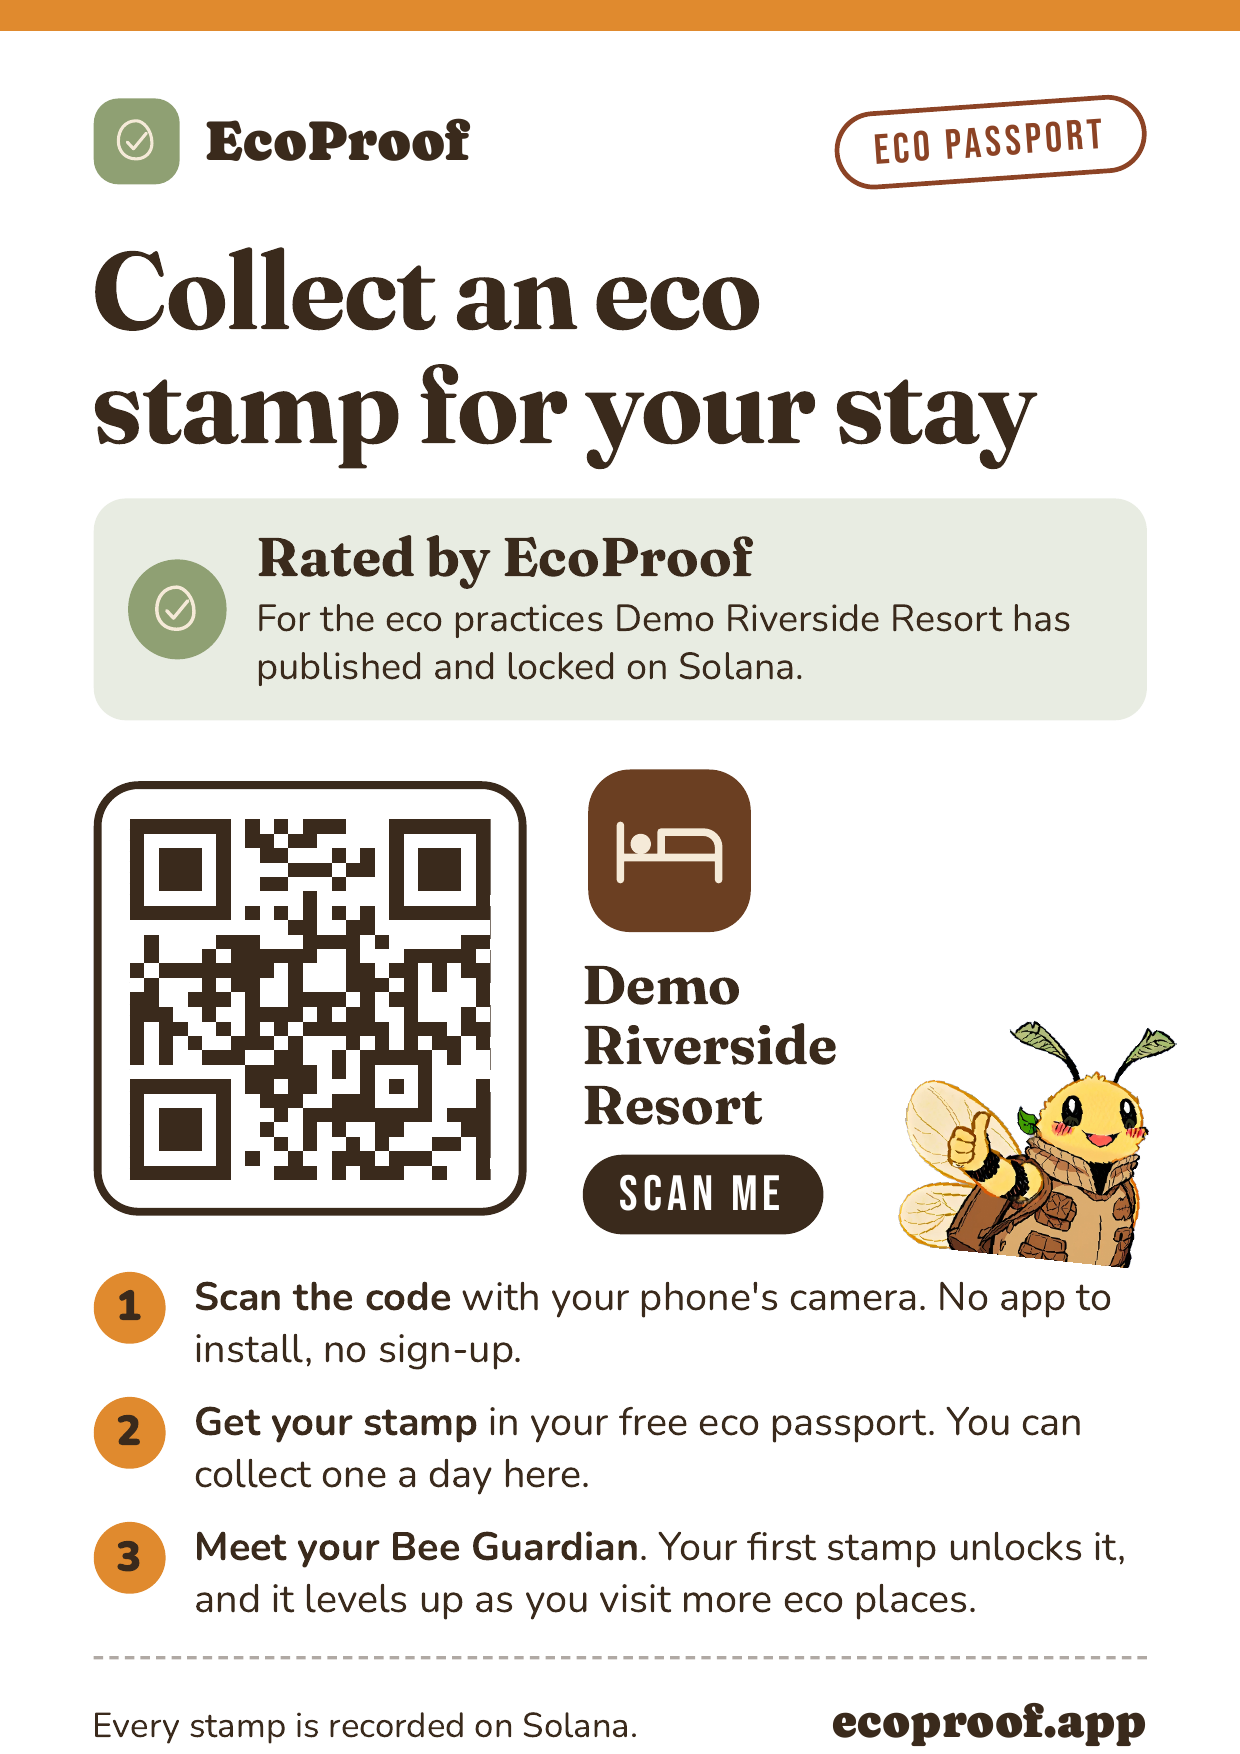
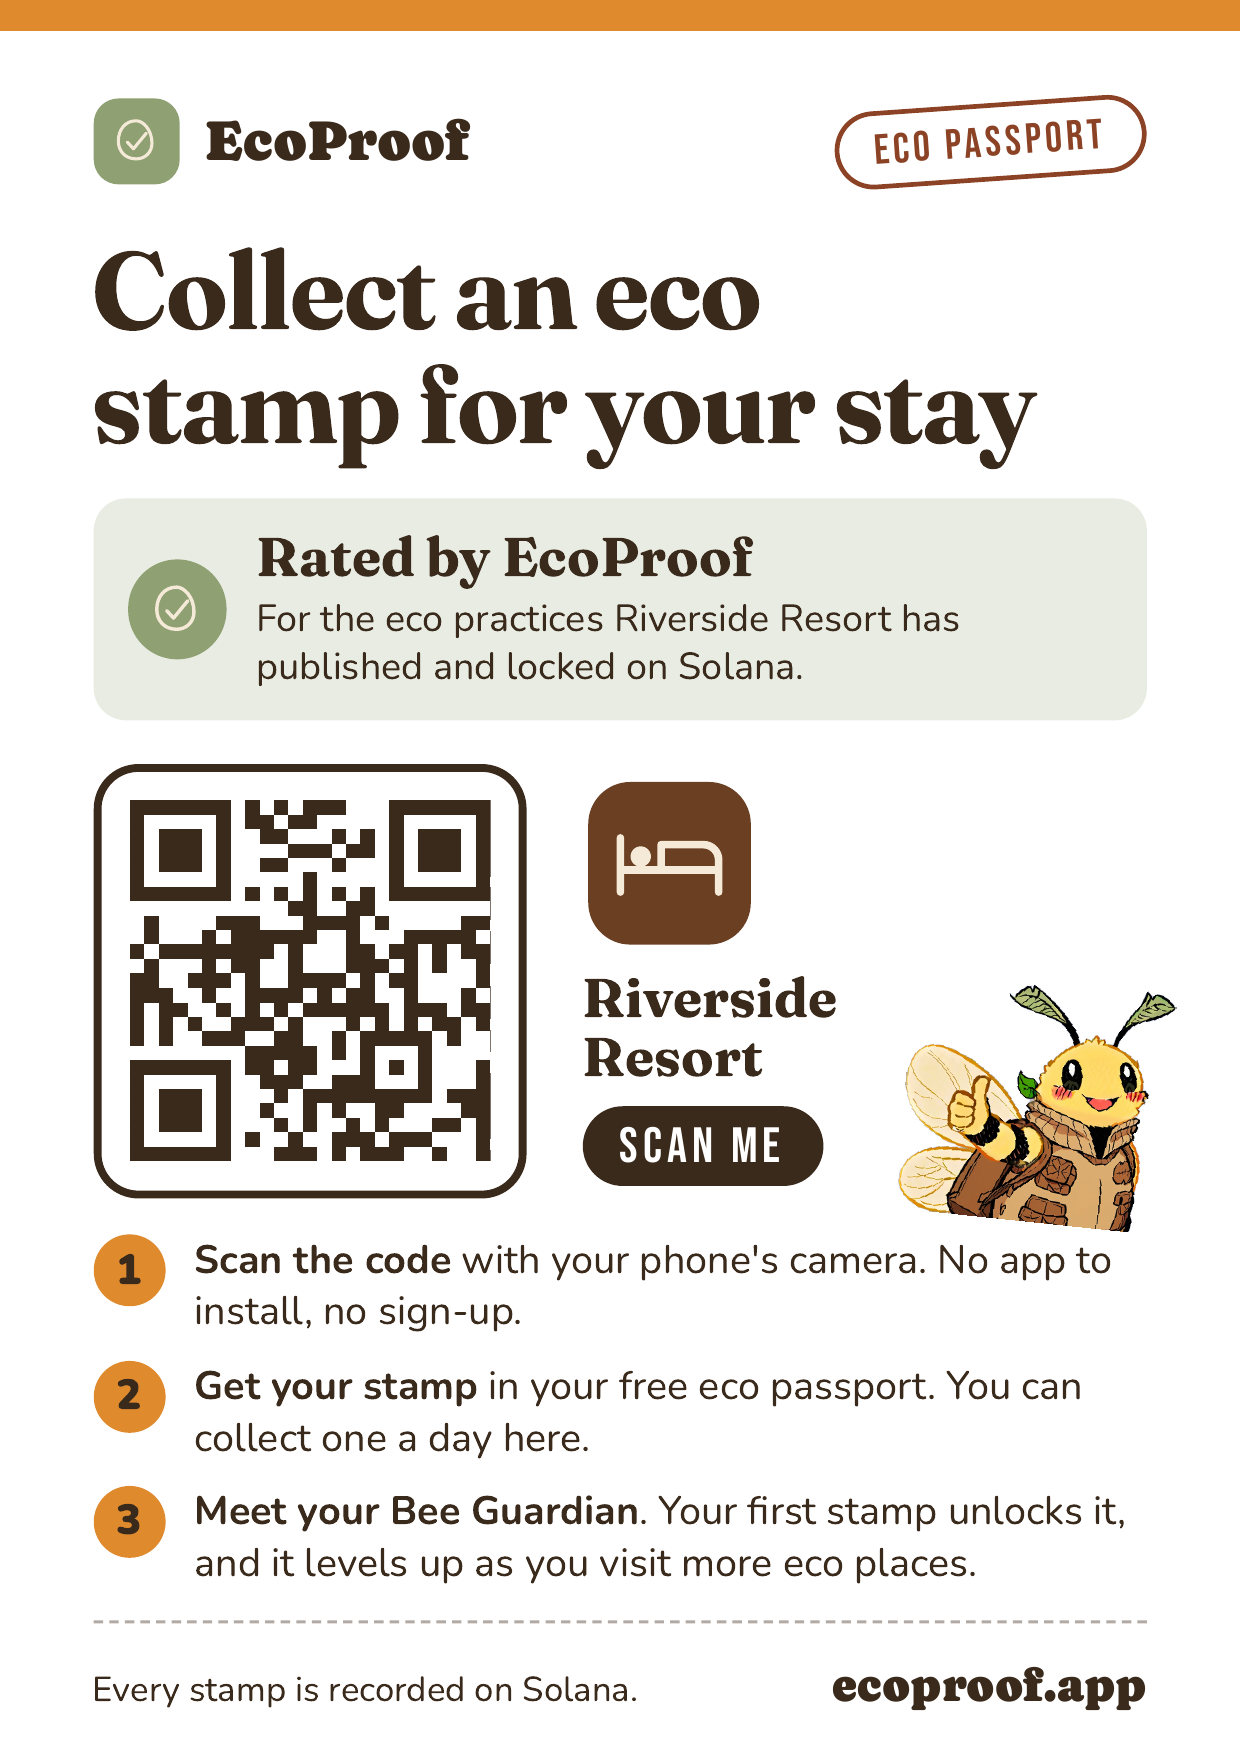
Hotel postcard in the pictures: Riverside Resort, without Demo
Claude-Session: https://claude.ai/code/session_01HWHP3iugw8gkvvKKS5vpBj

Changed region(s): [[0.0613, 0.431, 0.95, 1.0], [0.4903, 0.3387, 0.8581, 0.3694]]

diff --git a/components/landing/Landing.tsx b/components/landing/Landing.tsx
@@ -337,7 +337,7 @@ export default async function Landing({ stats }: { stats: LandingStats | null })
         <ul className="mt-8 grid gap-6 md:grid-cols-3">
           {doors.map((d, i) => (
             <li key={d.img} className="stitched grain flex flex-col rounded-[20px] bg-kraft/50 p-4 sm:p-5">
-              <Image src={`/landing/doors/v5/${d.img}.webp`} alt="" width={640} height={640} sizes="(min-width: 768px) 360px, 100vw" className="sticker aspect-[16/10] w-full object-cover object-[50%_70%] md:aspect-square" style={{ transform: `rotate(${[-1.5, 1, -1][i]}deg)` }} />
+              <Image src={`/landing/doors/v6/${d.img}.webp`} alt="" width={640} height={640} sizes="(min-width: 768px) 360px, 100vw" className="sticker aspect-[16/10] w-full object-cover object-[50%_70%] md:aspect-square" style={{ transform: `rotate(${[-1.5, 1, -1][i]}deg)` }} />
               <h3 className="mt-5 text-[22px] leading-tight">{d.title}</h3>
               <p className="mt-2 inline-flex items-center gap-1.5 self-start rounded-full bg-paper px-3 py-1 text-[13px] font-extrabold text-cocoa ring-1 ring-cocoa/10"><Stamp size={14} className="shrink-0 text-sky-ink" /> {d.door}</p>
               {/* Three facts per card (critique of 14 Nov 2026: 12+ chunks for "which one am I?"); what customers get is in "For customers". */}

diff --git a/components/landing/MapPicture.tsx b/components/landing/MapPicture.tsx
@@ -133,7 +133,7 @@ export default function MapPicture({ scanned = false }: { scanned?: boolean }) {
         <svg viewBox="0 0 100 100" preserveAspectRatio="none" className="pointer-events-none absolute inset-0 h-full w-full" aria-hidden>
           <path d="M83 33 C 86 36, 87 40, 86 46" fill="none" stroke="#e08a2e" strokeWidth={3} strokeDasharray="7 6" strokeLinecap="round" vectorEffect="non-scaling-stroke" />
         </svg>
-        <Image src="/landing/hero/stand-honey.webp" alt="The hotel's EcoProof postcard on a small stand of rough natural wood: Collect an eco stamp for your stay, Rated by EcoProof, with a QR code" width={300} height={510} sizes="(min-width: 640px) 170px, 120px"
+        <Image src="/landing/hero/stand-riverside.webp" alt="The hotel's EcoProof postcard on a small stand of rough natural wood: Collect an eco stamp for your stay, Rated by EcoProof, with a QR code" width={300} height={510} sizes="(min-width: 640px) 170px, 120px"
           className="hero-stand absolute -bottom-[16%] -left-3 -rotate-[3deg] drop-shadow-[0_18px_22px_rgba(58,42,28,0.4)] lg:-left-10" />
         <ScanPhone />
       </>}

diff --git a/components/landing/HowItWorks.tsx b/components/landing/HowItWorks.tsx
@@ -27,7 +27,7 @@ const PLACES: { cap: string; title: string; points: string; src: string; alt: st
     src: `${PIC}/counter-card.webp`,
     alt: "A café counter with the EcoProof postcard on a wooden stand beside a cup of coffee: Collect an eco stamp for your visit, a QR code, three steps and the Bee Guardian" },
   { cap: "The receipt from the till", title: "A purchase in an eco shop", points: `${pointsLabel(POINTS_VERIFIED)} for a photo of the receipt, taken in the shop. ${pointsLabel(POINTS_BY_KIND.eco_shop)} for the QR code at the till.`,
-    src: "/landing/doors/v5/store.webp",
+    src: "/landing/doors/v6/store.webp",
     alt: "The counter of an eco shop: a customer photographs the till receipt with a phone, and the screen shows what the purchase avoided" },
   { cap: "The QR code in the order email or the parcel", title: "An online order", points: `${pointsLabel(POINTS_VERIFIED)} for each verified order.`,
     src: `${PIC}/parcel-home.webp`,

diff --git a/CLAUDE.md b/CLAUDE.md
@@ -99,7 +99,7 @@ on Solana. For sustainable shops, cafés, markets and online brands.
   caches bust; current `v4`. A scroll parallax was tried and dropped (not seen as moving, blurred the strip). The Bee Guardian cutout (`public/landing/bee.webp`, from `art/v2/ranks/sentinel/sentinel_card.png`) peeks in. The
   card-fan hero (`components/landing/HeroArt.tsx`, `public/landing/cards/*.webp`, 2x of 300x420, from `art/v2/compositor/samples/`, SVG stamp
   rings) stays behind `NEXT_PUBLIC_LANDING_HERO=cards`. Paper grain and stamps are CSS. Buildings inpainted onto the island (`inpaint.py`,
-  `v3_*.py`) never matched; the island stays as generated. The earlier SD flat-lay hero (`art/hero-r1/`, `art/v2/hero/`) was dropped for mixing two styles; the owner-door photos (`public/landing/doors/v5/`). Since 2026-11-18 every picture of a place shows the real A6 postcard, not a bare QR card (Pola): `art/postcard/` holds the recipe. `gen.py <scene> <seeds>` renders epicrealismXL scenes with one blank portrait card on a wooden stand (café 403, restaurant 403, hotel `reception2` 436, eco store 402 are the picks; a card on a hotel bedside table never stood up, so the hotel is a reception desk, and the card must stand upright and face the camera: a leaning one reads as a crooked print); the card is the app's own print of a local demo place (`brave --headless --print-to-pdf http://localhost:3000/place/<id>?size=a4`, `pdftoppm -r 150 -png`; local-only places demo-cafe, demo-restaurant, demo-hotel, demo-eco-shop), `web_qr.py` swaps its QR for one to https://ecoproof.app, and `compose.py <cafe|restaurant|hotel|store>` finds the blank card and multiplies the postcard onto it → `out_<key>.png`. In use: café = `steps/v2/counter-card.webp`, restaurant = `doors/v5/coffee.webp`, hotel = `doors/v5/hotel.webp`; the store one (`out_store.png`) is made but not placed. The store door keeps the earlier receipt photo
+  `v3_*.py`) never matched; the island stays as generated. The earlier SD flat-lay hero (`art/hero-r1/`, `art/v2/hero/`) was dropped for mixing two styles; the owner-door photos (`public/landing/doors/v6/`). Since 2026-11-18 every picture of a place shows the real A6 postcard, not a bare QR card (Pola): `art/postcard/` holds the recipe. `gen.py <scene> <seeds>` renders epicrealismXL scenes with one blank portrait card on a wooden stand (café 403, restaurant 403, hotel `reception2` 436, eco store 402 are the picks; a card on a hotel bedside table never stood up, so the hotel is a reception desk, and the card must stand upright and face the camera: a leaning one reads as a crooked print); the card is the app's own print of a local demo place (`brave --headless --print-to-pdf http://localhost:3000/place/<id>?size=a4`, `pdftoppm -r 150 -png`; local-only places demo-cafe, demo-restaurant, demo-hotel (named "Riverside Resort", without "Demo", since 2026-11-18: Pola), demo-eco-shop), `web_qr.py` swaps its QR for one to https://ecoproof.app, and `compose.py <cafe|restaurant|hotel|store>` finds the blank card and multiplies the postcard onto it → `out_<key>.png`. In use: café = `steps/v2/counter-card.webp`, restaurant = `doors/v6/coffee.webp`, hotel = `doors/v6/hotel.webp`; the store one (`out_store.png`) is made but not placed. The store door keeps the earlier receipt photo
   (from `art/doors/v2/`: epicrealismXL scenes with blank surfaces, `gen.py`, restaurant seed 202, hotel 211, store 203 with the hand repainted off the
   screen by `inpaint_hand.py` seed 306; the screen is placed from the phone's `glass` corners in `compose.py`: the glass is painted near-black, then the screenshot goes inside it with an even bezel and rounded corners; `compose.py` prints the real QR card, the SuperBee receipt and the EcoProof screen from `assets.mjs` onto them; the café tile uses `coffee.webp`) and partner logos (`public/landing/partners/`, from
   `art/partner/`) stay. Step images `public/landing/steps/v2/` (a new folder whenever a deployed picture changes, so caches bust): connect is the café postcard photo (above; the earlier QR-card composites live in `art/steps/connect/`), parcel-home is the "order arrived" picture in a kitchen (Pola, 2026-11-18: real life, not a mail-window mock; the parcel card is a business card and lies in the opened parcel): `art/steps/email/gen.py inbox 905` is the epicrealismXL scene (a table from above, an opened kraft parcel with a white sheet in it, a tablet on a stand; SD would not draw a blank business card on request, so the sheet is tinted to packing paper and the card laid on it); the card is the app's own print (`/place/demo-eco-shop/cards?batch=picture&token=<ADMIN_TOKEN>` to PDF, `pdftoppm -r 600` crop → `bizcard.png`; local-only card DEMO7PARCL), its QR swapped for one to https://ecoproof.app; `render.php client full` (widened to 1333px with sed) runs `EcoProof_Stamp::html` outside WordPress as a mail app → `tablet-land.html`, screenshot with headless Brave at 1333x1000, scale 2 → `tablet-land.png`; `compose.py` puts both in by hand-read corners → `out_home.png`. The earlier scene (`gen.py parcel 525`, upright tablet, `render.php client full portrait`) had a blank A6 card and was replaced. A living-room version (`gen.py sofa 513`) came first and was replaced; `render.php client` still makes the mail-window mock, proof is the "Proof on Solana" card cropped out of `art/steps/stamp/stamp.png` (888,95, 685x572), stamp is a screenshot from
@@ -112,7 +112,7 @@ on Solana. For sustainable shops, cafés, markets and online brands.
   (`components/landing/CheckRecord.tsx` → `/api/verify`); "Your impact page writes itself" shows the example shop (most verified purchases) with
   its numbers linking to `/places/<id>#proofs` (the proof list, `shopProofs()` in `lib/shops.ts`), and the live badge: `lib/badge.ts` builds the SVG,
   `/api/badge/<place>.svg` serves it (eco shops only, cached 5 min), `badgeEmbed()` is the snippet, shown only on the owner dashboard (`badge` in the activity API); the landing shows the badge image without its code. Below `FEW_ORDERS` (10, `lib/badge.ts`) verified orders the badge and the landing widget lead with the order count instead of the totals, so one big order can't look like inflation. With no example shop the widget shows dashes,
-  never zeros. The hero (Pola, 2026-11-18, final after several photo heroes that "did not work") has no photo: the copy on kraft (for customers only: no line for owners and no counter or "early days" box in the hero, Pola took both out; "Add place" is in the navigation), and beside it three pictures in one (`MapPicture scanned`): the map of eco places with its QR pins, the hotel's A6 postcard on its wooden stand as a cut-out at the lower left (`art/hero-scan/cutout.py`, which rebuilds the photo's oversized, glossy wooden block as a slim holder of rough sawn, untreated wood (`wood.py` makes the plank and end-grain textures; Pola: the block was too big, too shiny, too deep, and the wood should look natural and rough), → `public/landing/hero/stand-honey.webp` (the textures are warmed to honey in `cutout.py`), width in `.hero-stand`), and at the lower right a phone drawn in HTML (`ScanPhone`, size in `.scan-phone`) that has just scanned the Hotel pin's QR code (the code is framed, a dashed line runs to the phone) and shows "Stamp collected", the points, the proof and the Sentinel. Keep the scanned pin clear of the phone. Dropped the same day, recipes kept: a guest in a hotel room (`art/hero-room/`), a hotel desk photo with the postcard (`art/hero-scan/gen.py`, `clear.py`, `compose.py`). Section order: hero, the award line (partner logos and "founding partner" dropped 2026-11-15), customers ("I'm eco, and I have proof.", `#customers`, moved up under the hero on 2026-11-18; its picture is the passport phone mockup), "How it works" (`#how`, a carousel since 2026-11-18, `components/landing/HowItWorks.tsx`; it replaced "Live in three steps" and the Solana journey, which told the same steps: slide 1 "Find the QR code" shows three places to find it, each a picture with what a stamp there is worth, in this order: the café postcard photo (café / restaurant / hotel / resort), the eco shop door's receipt photo (a purchase in an eco shop), the parcel-arrived picture (an online order: parcel card and order email); points read from `lib/stampClasses.ts`; slide 2 "A few seconds on the phone" has the stamp picture, four steps worded for a visit and an order at once (no switch), "Watch it on a phone" (swaps the picture for the visit replay) and sharing; slide 3 "And it stays that way" is the plain-words "What is Solana, and why put a coffee stamp on it?" with the proof picture under it, the promises and honest limits, and carries `#why-chain`, which opens that slide; one scroll-snap row, as tall as the slide on show, with tabs and a next button that ends in "Join as a business". Pola wants slide 2 more interactive or animated later: talk first), "Anyone can print a green badge" (`#proof`: claim vs a record headlined "Unchanged since <date>", with the live check), business types, "Your public page writes itself" (`#impact`: badge, the shop impact widget, and a star card from `LandingStats.hospitality` with a Café / Restaurant | Hotel / Resort switch (`components/landing/HospitalityCard.tsx`; each a real place once one has published stars, else a demo place shown as a dashed specimen with unfilled stars; the hotel side adds "What guests see before they book"), after the real shop widget on phones), pricing, closing. Below `COUNTERS_FROM` proofs the hero shows an "early days" line instead of counter tiles; below 10 purchases the impact widget starts with the orders behind its numbers and highlights no figure. Phones get a "Try it: collect a demo stamp" button instead of the QR card. The phone replay (`components/landing/StampJourney.tsx`, `door` prop, loops, still under reduced motion) replays the real claim steps for a visit or an order; the scannable on-page QR card, the hash/memo tiles (`ChainFlow`) and the on/off-chain box were dropped as too much, too technical.
+  never zeros. The hero (Pola, 2026-11-18, final after several photo heroes that "did not work") has no photo: the copy on kraft (for customers only: no line for owners and no counter or "early days" box in the hero, Pola took both out; "Add place" is in the navigation), and beside it three pictures in one (`MapPicture scanned`): the map of eco places with its QR pins, the hotel's A6 postcard on its wooden stand as a cut-out at the lower left (`art/hero-scan/cutout.py`, which rebuilds the photo's oversized, glossy wooden block as a slim holder of rough sawn, untreated wood (`wood.py` makes the plank and end-grain textures; Pola: the block was too big, too shiny, too deep, and the wood should look natural and rough), → `public/landing/hero/stand-riverside.webp` (the textures are warmed to honey in `cutout.py`), width in `.hero-stand`), and at the lower right a phone drawn in HTML (`ScanPhone`, size in `.scan-phone`) that has just scanned the Hotel pin's QR code (the code is framed, a dashed line runs to the phone) and shows "Stamp collected", the points, the proof and the Sentinel. Keep the scanned pin clear of the phone. Dropped the same day, recipes kept: a guest in a hotel room (`art/hero-room/`), a hotel desk photo with the postcard (`art/hero-scan/gen.py`, `clear.py`, `compose.py`). Section order: hero, the award line (partner logos and "founding partner" dropped 2026-11-15), customers ("I'm eco, and I have proof.", `#customers`, moved up under the hero on 2026-11-18; its picture is the passport phone mockup), "How it works" (`#how`, a carousel since 2026-11-18, `components/landing/HowItWorks.tsx`; it replaced "Live in three steps" and the Solana journey, which told the same steps: slide 1 "Find the QR code" shows three places to find it, each a picture with what a stamp there is worth, in this order: the café postcard photo (café / restaurant / hotel / resort), the eco shop door's receipt photo (a purchase in an eco shop), the parcel-arrived picture (an online order: parcel card and order email); points read from `lib/stampClasses.ts`; slide 2 "A few seconds on the phone" has the stamp picture, four steps worded for a visit and an order at once (no switch), "Watch it on a phone" (swaps the picture for the visit replay) and sharing; slide 3 "And it stays that way" is the plain-words "What is Solana, and why put a coffee stamp on it?" with the proof picture under it, the promises and honest limits, and carries `#why-chain`, which opens that slide; one scroll-snap row, as tall as the slide on show, with tabs and a next button that ends in "Join as a business". Pola wants slide 2 more interactive or animated later: talk first), "Anyone can print a green badge" (`#proof`: claim vs a record headlined "Unchanged since <date>", with the live check), business types, "Your public page writes itself" (`#impact`: badge, the shop impact widget, and a star card from `LandingStats.hospitality` with a Café / Restaurant | Hotel / Resort switch (`components/landing/HospitalityCard.tsx`; each a real place once one has published stars, else a demo place shown as a dashed specimen with unfilled stars; the hotel side adds "What guests see before they book"), after the real shop widget on phones), pricing, closing. Below `COUNTERS_FROM` proofs the hero shows an "early days" line instead of counter tiles; below 10 purchases the impact widget starts with the orders behind its numbers and highlights no figure. Phones get a "Try it: collect a demo stamp" button instead of the QR card. The phone replay (`components/landing/StampJourney.tsx`, `door` prop, loops, still under reduced motion) replays the real claim steps for a visit or an order; the scannable on-page QR card, the hash/memo tiles (`ChainFlow`) and the on/off-chain box were dropped as too much, too technical.
 - `/join` lives outside `(app)` (`app/join/`, content in `components/landing/JoinFlow.tsx`) and wears the landing's journal chrome (`LandingNav page="join"`);
   sign-in there leads with Google/Facebook, the wallet sits under "Other ways to sign in".
 - Points by kind (`POINTS_BY_KIND` in `lib/stampClasses.ts`, decided 21 Oct 2026): a presence stamp is worth 1 at a café or restaurant,
